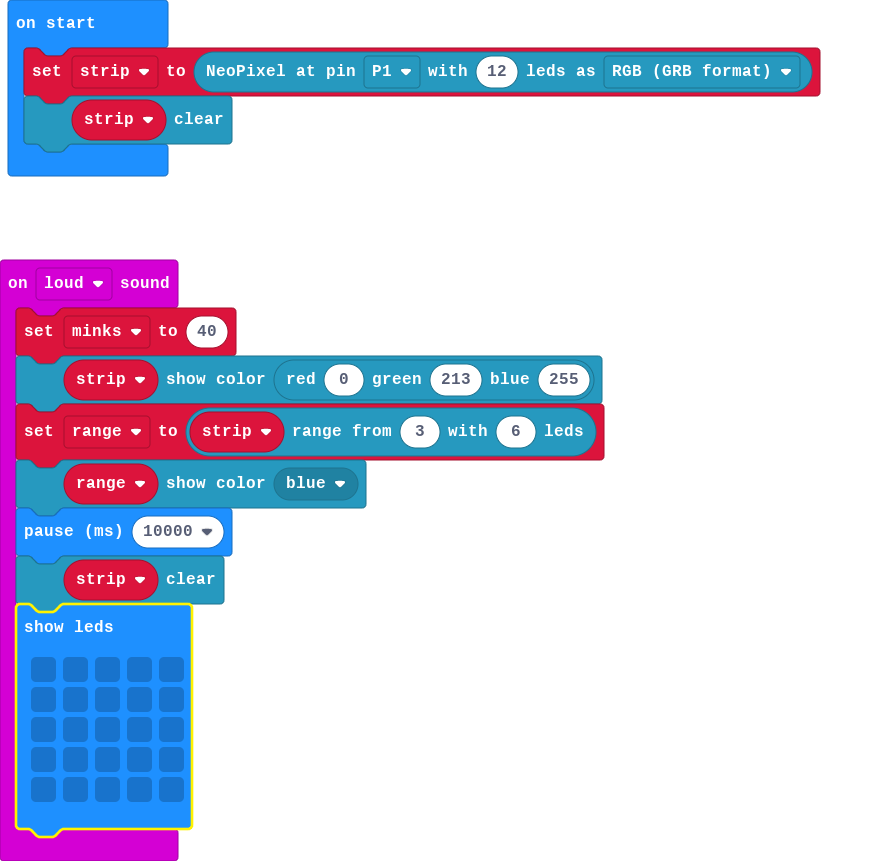
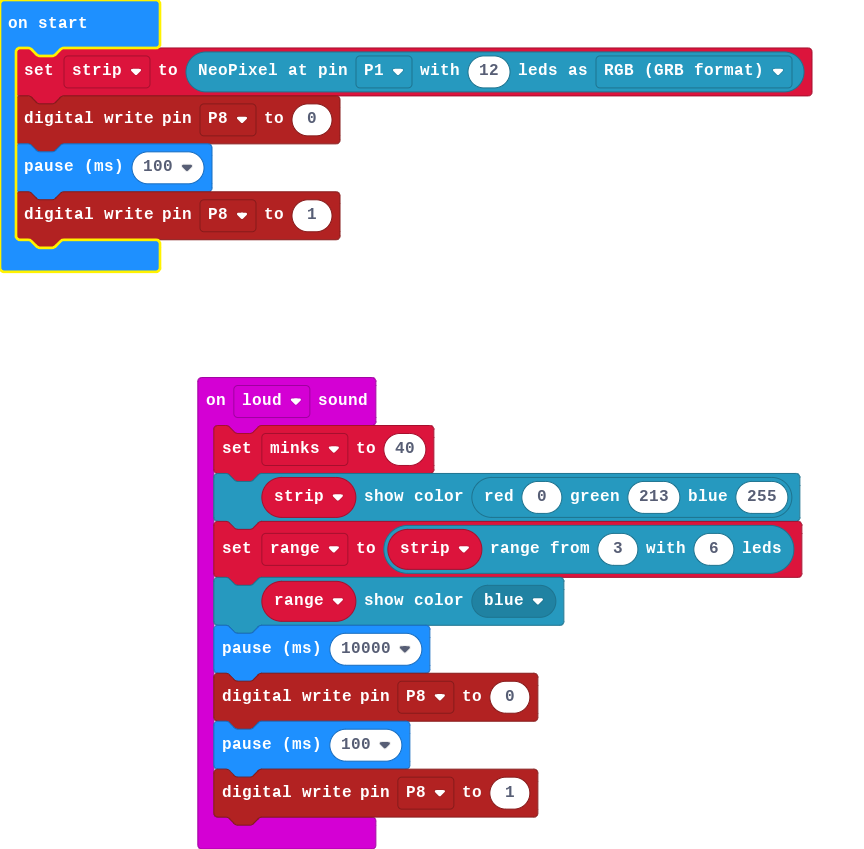
Update main.blocks, main.ts

diff --git a/main.ts b/main.ts
@@ -4,17 +4,14 @@ input.onSound(DetectedSound.Loud, function () {
     range = strip.range(3, 6)
     range.showColor(neopixel.colors(NeoPixelColors.Blue))
     basic.pause(10000)
-    strip.clear()
-    basic.showLeds(`
-        . . . . .
-        . . . . .
-        . . . . .
-        . . . . .
-        . . . . .
-        `)
+    pins.digitalWritePin(DigitalPin.P8, 0)
+    basic.pause(100)
+    pins.digitalWritePin(DigitalPin.P8, 1)
 })
 let range: neopixel.Strip = null
 let minks = 0
 let strip: neopixel.Strip = null
 strip = neopixel.create(DigitalPin.P1, 12, NeoPixelMode.RGB)
-strip.clear()
+pins.digitalWritePin(DigitalPin.P8, 0)
+basic.pause(100)
+pins.digitalWritePin(DigitalPin.P8, 1)
